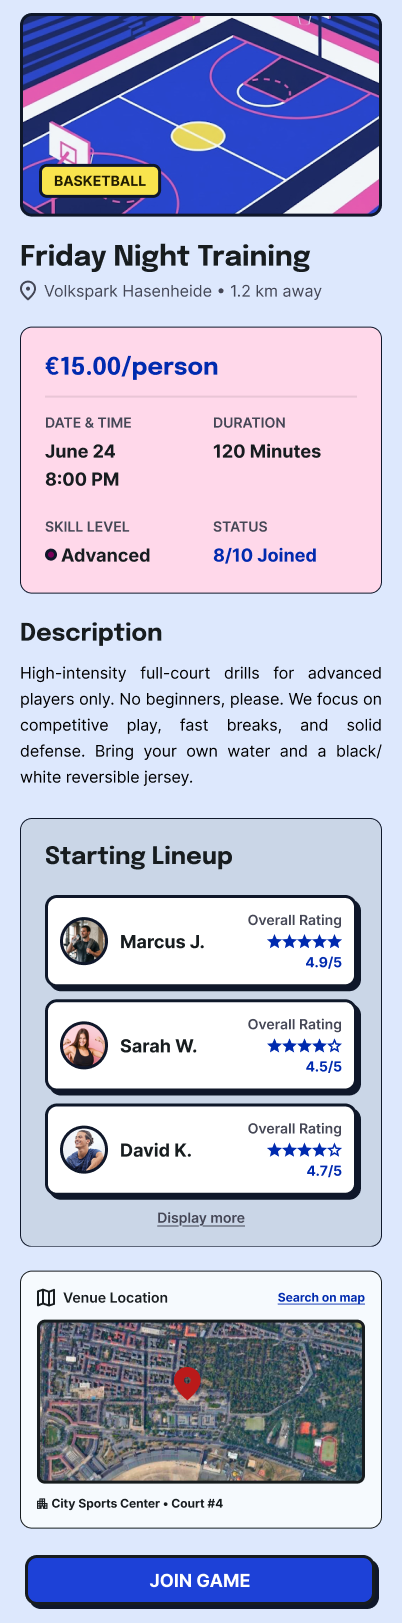
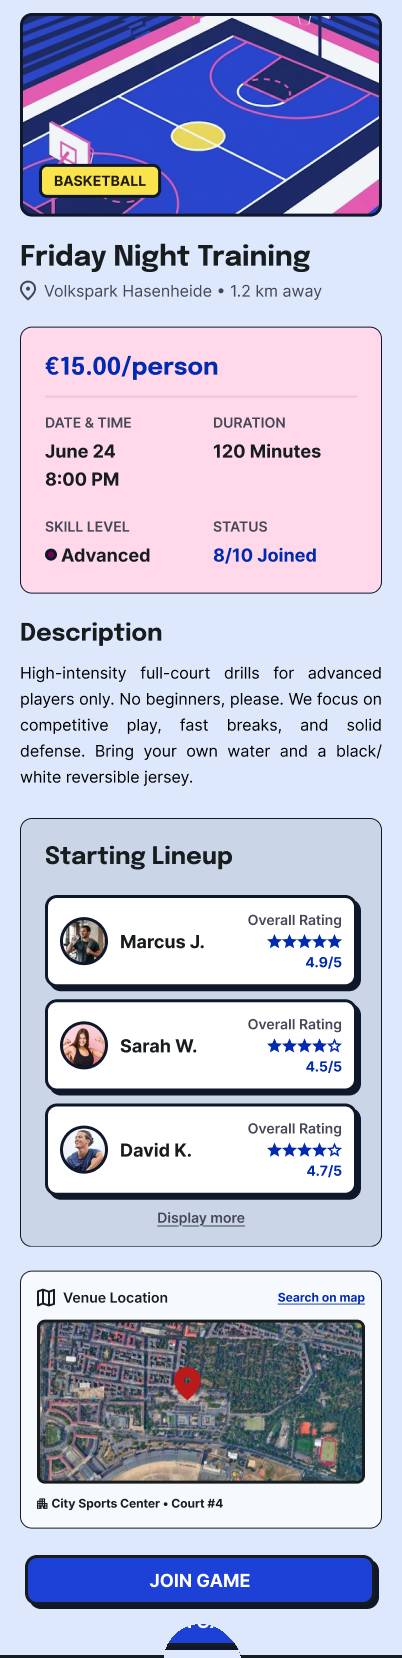
PlayMate: floating nav bar without the blue strip
The footer is now only the pink bar and the round + button on a transparent background;
the scrolling content shows through around the button, like on a real phone.

diff --git a/src/styles/site.css b/src/styles/site.css
@@ -1146,7 +1146,7 @@ body.is-scroll { overflow-x: clip; }
 }
 
 /* Scrolling screens: a long app screen scrolls inside its phone, under the visitor's own wheel or finger. */
-.device-clip { display: flex; flex-direction: column; width: 100%; height: 100%; overflow: hidden; border-radius: calc(var(--dh) * 0.064); background: #000; }
+.device-clip { position: relative; display: flex; flex-direction: column; width: 100%; height: 100%; overflow: hidden; border-radius: calc(var(--dh) * 0.064); background: #000; }
 .work .device-clip > .pin { flex: 0 0 auto; display: block; width: 100%; height: auto; border-radius: 0; box-shadow: none !important; }
 .device-scroll {
   flex: 1 1 0;
@@ -1160,5 +1160,6 @@ body.is-scroll { overflow-x: clip; }
   outline-offset: -3px;
 }
 .device-scroll::-webkit-scrollbar { display: none; }
-.work .device-scroll > img { display: block; width: 100%; height: auto; border-radius: 0; box-shadow: none !important; }
+.work .device-scroll img { display: block; width: 100%; height: auto; border-radius: 0; box-shadow: none !important; }
+.work .device-clip > .pin-foot { position: absolute; left: 0; bottom: 0; pointer-events: none; }
 .scrolls .board > div:first-child h4::after { content: ' · scroll a screen'; color: var(--tertiary); text-transform: none; letter-spacing: 0; }

diff --git a/src/content.config.ts b/src/content.config.ts
@@ -10,7 +10,9 @@ const image = z.object({
 });
 
 // A screen whose top banner and bottom nav stay put while the middle scrolls.
-const pinnedImage = image.extend({ head: image.optional(), foot: image.optional() });
+// `foot` is the nav bar plus its round button on a transparent background; it floats over the scrolling
+// content, and `nav` is the height of the bar itself (in source pixels), used to leave room at the end.
+const pinnedImage = image.extend({ head: image.optional(), foot: image.extend({ nav: z.number() }).optional() });
 
 const projects = defineCollection({
   loader: glob({ pattern: '*.md', base: './src/content/projects' }),

diff --git a/src/content/projects/playmate.md b/src/content/projects/playmate.md
@@ -38,23 +38,23 @@ gallery:
     device: true
     scroll: true
     items:
-      - { src: /images/playmate-app-home-1.webp, alt: 'PlayMate home dashboard', width: 402, height: 1250, head: { src: /images/playmate-app-home-1-head.webp, alt: '', width: 402, height: 101 }, foot: { src: /images/playmate-app-home-1-foot.webp, alt: '', width: 402, height: 115 } }
-      - { src: /images/playmate-app-home-2.webp, alt: 'PlayMate Find a Match, list view', width: 402, height: 1488, head: { src: /images/playmate-app-home-2-head.webp, alt: '', width: 402, height: 101 }, foot: { src: /images/playmate-app-home-2-foot.webp, alt: '', width: 402, height: 115 } }
-      - { src: /images/playmate-app-home-3.webp, alt: 'PlayMate Find a Match, map view', width: 402, height: 948, head: { src: /images/playmate-app-home-3-head.webp, alt: '', width: 402, height: 100 }, foot: { src: /images/playmate-app-home-3-foot.webp, alt: '', width: 402, height: 119 } }
-      - { src: /images/playmate-app-home-4.webp, alt: 'PlayMate game details', width: 402, height: 1623, head: { src: /images/playmate-app-home-4-head.webp, alt: '', width: 402, height: 101 }, foot: { src: /images/playmate-app-home-4-foot.webp, alt: '', width: 402, height: 115 } }
+      - { src: /images/playmate-app-home-1.webp, alt: 'PlayMate home dashboard', width: 402, height: 1285, head: { src: /images/playmate-app-home-1-head.webp, alt: '', width: 402, height: 101 }, foot: { src: /images/playmate-app-home-1-foot.webp, alt: '', width: 402, height: 116, nav: 80 } }
+      - { src: /images/playmate-app-home-2.webp, alt: 'PlayMate Find a Match, list view', width: 402, height: 1523, head: { src: /images/playmate-app-home-2-head.webp, alt: '', width: 402, height: 101 }, foot: { src: /images/playmate-app-home-2-foot.webp, alt: '', width: 402, height: 116, nav: 80 } }
+      - { src: /images/playmate-app-home-3.webp, alt: 'PlayMate Find a Match, map view', width: 402, height: 988, head: { src: /images/playmate-app-home-3-head.webp, alt: '', width: 402, height: 100 }, foot: { src: /images/playmate-app-home-3-foot.webp, alt: '', width: 402, height: 116, nav: 79 } }
+      - { src: /images/playmate-app-home-4.webp, alt: 'PlayMate game details', width: 402, height: 1658, head: { src: /images/playmate-app-home-4-head.webp, alt: '', width: 402, height: 101 }, foot: { src: /images/playmate-app-home-4-foot.webp, alt: '', width: 402, height: 116, nav: 80 } }
       - { src: /images/playmate-app-home-5.webp, alt: 'PlayMate create a game', width: 402, height: 1742 }
-      - { src: /images/playmate-app-home-6.webp, alt: 'PlayMate past games and games to rate', width: 402, height: 989, head: { src: /images/playmate-app-home-6-head.webp, alt: '', width: 402, height: 101 }, foot: { src: /images/playmate-app-home-6-foot.webp, alt: '', width: 402, height: 115 } }
+      - { src: /images/playmate-app-home-6.webp, alt: 'PlayMate past games and games to rate', width: 402, height: 1024, head: { src: /images/playmate-app-home-6-head.webp, alt: '', width: 402, height: 101 }, foot: { src: /images/playmate-app-home-6-foot.webp, alt: '', width: 402, height: 116, nav: 80 } }
   - label: Final screens
     title: 'Friends, ratings and profile'
     device: true
     scroll: true
     items:
-      - { src: /images/playmate-app-social-1.webp, alt: 'PlayMate friends and recent chats', width: 402, height: 1226, head: { src: /images/playmate-app-social-1-head.webp, alt: '', width: 402, height: 101 }, foot: { src: /images/playmate-app-social-1-foot.webp, alt: '', width: 402, height: 115 } }
-      - { src: /images/playmate-app-social-2.webp, alt: 'PlayMate post-game feedback', width: 402, height: 1752, head: { src: /images/playmate-app-social-2-head.webp, alt: '', width: 402, height: 101 }, foot: { src: /images/playmate-app-social-2-foot.webp, alt: '', width: 402, height: 115 } }
-      - { src: /images/playmate-app-social-3.webp, alt: 'PlayMate another player’s profile', width: 351, height: 1811, head: { src: /images/playmate-app-social-3-head.webp, alt: '', width: 351, height: 88 }, foot: { src: /images/playmate-app-social-3-foot.webp, alt: '', width: 351, height: 101 } }
-      - { src: /images/playmate-app-social-4.webp, alt: 'PlayMate your profile', width: 351, height: 1811, head: { src: /images/playmate-app-social-4-head.webp, alt: '', width: 351, height: 88 }, foot: { src: /images/playmate-app-social-4-foot.webp, alt: '', width: 351, height: 101 } }
-      - { src: /images/playmate-app-social-5.webp, alt: 'PlayMate settings', width: 402, height: 868, head: { src: /images/playmate-app-social-5-head.webp, alt: '', width: 402, height: 101 }, foot: { src: /images/playmate-app-social-5-foot.webp, alt: '', width: 402, height: 115 } }
-      - { src: /images/playmate-app-social-6.webp, alt: 'PlayMate no-show penalty', width: 402, height: 920, head: { src: /images/playmate-app-social-6-head.webp, alt: '', width: 402, height: 101 }, foot: { src: /images/playmate-app-social-6-foot.webp, alt: '', width: 402, height: 115 } }
+      - { src: /images/playmate-app-social-1.webp, alt: 'PlayMate friends and recent chats', width: 402, height: 1261, head: { src: /images/playmate-app-social-1-head.webp, alt: '', width: 402, height: 101 }, foot: { src: /images/playmate-app-social-1-foot.webp, alt: '', width: 402, height: 116, nav: 80 } }
+      - { src: /images/playmate-app-social-2.webp, alt: 'PlayMate post-game feedback', width: 402, height: 1787, head: { src: /images/playmate-app-social-2-head.webp, alt: '', width: 402, height: 101 }, foot: { src: /images/playmate-app-social-2-foot.webp, alt: '', width: 402, height: 116, nav: 80 } }
+      - { src: /images/playmate-app-social-3.webp, alt: 'PlayMate another player’s profile', width: 351, height: 1843, head: { src: /images/playmate-app-social-3-head.webp, alt: '', width: 351, height: 88 }, foot: { src: /images/playmate-app-social-3-foot.webp, alt: '', width: 351, height: 101, nav: 69 } }
+      - { src: /images/playmate-app-social-4.webp, alt: 'PlayMate your profile', width: 351, height: 1843, head: { src: /images/playmate-app-social-4-head.webp, alt: '', width: 351, height: 88 }, foot: { src: /images/playmate-app-social-4-foot.webp, alt: '', width: 351, height: 101, nav: 69 } }
+      - { src: /images/playmate-app-social-5.webp, alt: 'PlayMate settings', width: 402, height: 903, head: { src: /images/playmate-app-social-5-head.webp, alt: '', width: 402, height: 101 }, foot: { src: /images/playmate-app-social-5-foot.webp, alt: '', width: 402, height: 116, nav: 80 } }
+      - { src: /images/playmate-app-social-6.webp, alt: 'PlayMate no-show penalty', width: 402, height: 955, head: { src: /images/playmate-app-social-6-head.webp, alt: '', width: 402, height: 101 }, foot: { src: /images/playmate-app-social-6-foot.webp, alt: '', width: 402, height: 116, nav: 80 } }
 ---
 
 I designed PlayMate end to end, a community app that matches people for sports through game rooms instead of group chats.
